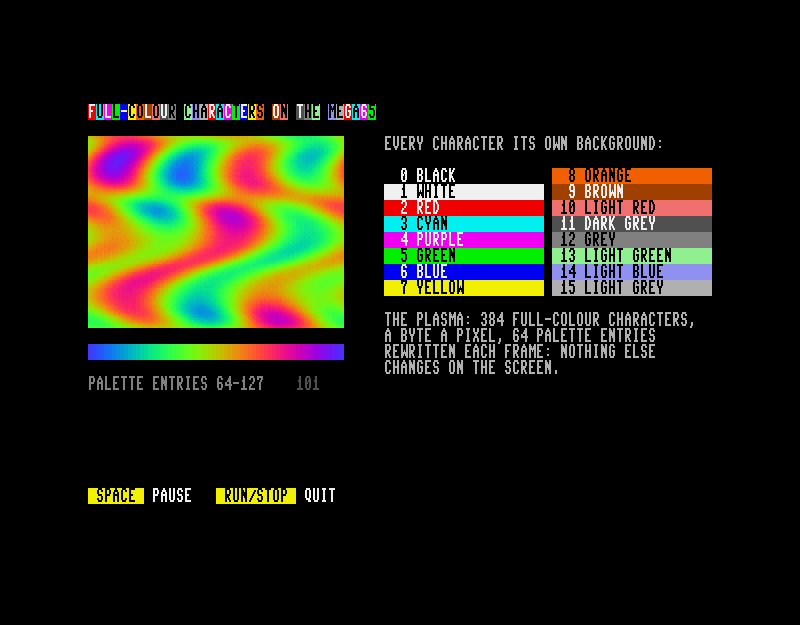
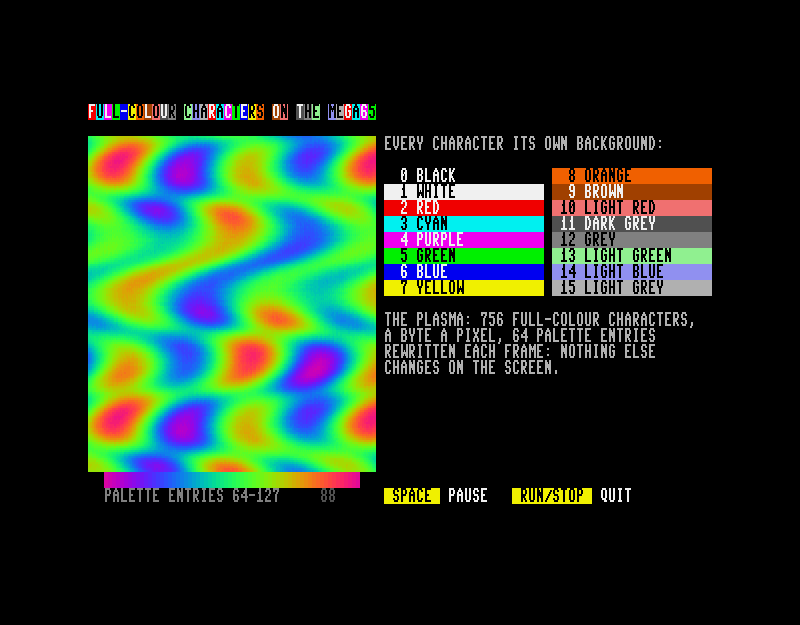
examples: fcm_graphics' plasma fills the screen's left half (36x21 characters)
756 full-colour characters (288x168 pixels, 49 KB in bank 4; conio's
full-colour mode then takes bank 5) instead of 32x12. The palette bar
and the frame count are below it, the keys on the right.

Changed region(s): [[0.0938, 0.2128, 0.7812, 0.8208], [0.5938, 0.4864, 0.625, 0.5168]]

diff --git a/examples/c/fcm_graphics/main.c b/examples/c/fcm_graphics/main.c
@@ -8,7 +8,8 @@
  *
  *   - a title and a table of the 16 colours, each character on its own
  *     background (fcm_putch / fcm_cputs / fcm_cprintf / fcm_fill_rect);
- *   - a plasma 32 x 12 characters (256 x 96 pixels) of 384 full-colour
+ *   - a plasma 36 x 21 characters (288 x 168 pixels, the screen's left
+ *     half) of 756 full-colour
  *     characters, each pixel one of 64 palette entries, and a bar of the 64
  *     entries; they move by palette cycling alone: each frame the 64 entries
  *     are rewritten one step further round, and no character changes.
@@ -25,9 +26,10 @@
 
 #define PX 1            /* the plasma's top left cell */
 #define PY 2
-#define PW 32           /* its size in cells */
-#define PH 12
-#define BARY 15         /* the palette bar's row */
+#define PW 36           /* its size in cells */
+#define PH 21
+#define BARY 23         /* the palette bar's row */
+#define BARX (PX + 2)   /* (32 cells, centred under the plasma) */
 #define RAMP 64         /* the palette entries it uses: RAMP .. RAMP + 63 */
 
 /* sin, 0..63 over 64 steps */
@@ -75,14 +77,15 @@ static void store(unsigned long a) {
 /* The plasma's characters and the bar's, from a (64-byte aligned): the
  * character at a + 64 * k is number a / 64 + k */
 static void make_glyphs(unsigned long a) {
-    unsigned char cx, cy, r, c, px, py, i;
+    unsigned char cx, cy, r, c, i;
+    unsigned int px, py;
     for (cy = 0; cy < PH; cy++)
         for (cx = 0; cx < PW; cx++) {
             i = 0;
             for (r = 0; r < 8; r++) {
-                py = (unsigned char)(cy * 8 + r);
+                py = cy * 8u + r;
                 for (c = 0; c < 8; c++) {
-                    px = (unsigned char)(cx * 8 + c);
+                    px = cx * 8u + c;
                     pix[i++] = (unsigned char)(RAMP +
                         ((sine[(px >> 1) & 63] + sine[(py + (px >> 2)) & 63] +
                           sine[((px + py) >> 1) & 63] + sine[(sine[py & 63] + (px >> 1)) & 63]) >> 2));
@@ -121,15 +124,15 @@ static void draw_text(void) {
         fcm_fill_rect(x, 4 + i % 8, x + 19, 4 + i % 8, ' ', 1, i);
         fcm_cprintf(x + 1, 4 + i % 8, ink(i), i, "%2d %s", i, names[i]);
     }
-    fcm_cputs(38, 13, "the plasma: 384 full-colour characters,", 15, 0);
+    fcm_cputs(38, 13, "the plasma: 756 full-colour characters,", 15, 0);
     fcm_cputs(38, 14, "a byte a pixel, 64 palette entries", 15, 0);
     fcm_cputs(38, 15, "rewritten each frame: nothing else", 15, 0);
     fcm_cputs(38, 16, "changes on the screen.", 15, 0);
-    fcm_cputs(PX, BARY + 2, "palette entries 64-127", 12, 0);
-    fcm_cputs(1, 24, " space ", 0, 7);
-    fcm_cputs(8, 24, " pause   ", 1, 0);
-    fcm_cputs(17, 24, " run/stop ", 0, 7);
-    fcm_cputs(27, 24, " quit", 1, 0);
+    fcm_cputs(BARX, BARY + 1, "palette entries 64-127", 12, 0);
+    fcm_cputs(38, 24, " space ", 0, 7);
+    fcm_cputs(45, 24, " pause   ", 1, 0);
+    fcm_cputs(54, 24, " run/stop ", 0, 7);
+    fcm_cputs(64, 24, " quit", 1, 0);
 }
 
 static void wait_frame(void) {
@@ -149,7 +152,7 @@ int main(void) {
     REG(0xD021) = 0;
     textcolor(1);
     clrscr();
-    /* 384 + 32 characters, 64-byte aligned */
+    /* 756 + 32 characters (49 KB), 64-byte aligned */
     mem = far_malloc((PW * PH + 32) * 64u + 63u, BANK4);
     if (far_is_null(mem)) mem = far_malloc((PW * PH + 32) * 64u + 63u, BANK5);
     if (far_is_null(mem) || !fcm_enable()) {
@@ -164,7 +167,7 @@ int main(void) {
     for (cy = 0; cy < PH; cy++)
         for (cx = 0; cx < PW; cx++)
             fcm_putglyph(PX + cx, PY + cy, k++, 1);
-    for (cx = 0; cx < 32; cx++) fcm_putglyph(PX + cx, BARY, k++, 1);
+    for (cx = 0; cx < 32; cx++) fcm_putglyph(BARX + cx, BARY, k++, 1);
     draw_text();
 
     for (;;) {
@@ -173,7 +176,7 @@ int main(void) {
             cycle(++at);
             frames++;
         }
-        fcm_cprintf(PX + 24, BARY + 2, 11, 0, "%5u", frames);
+        fcm_cprintf(BARX + 24, BARY + 1, 11, 0, "%5u", frames);
 #ifdef FCM_CHECK
         if (frames == 100) break;
 #endif

diff --git a/examples/README.md b/examples/README.md
@@ -30,7 +30,7 @@ These examples demonstrate different features of the m65compiler. [doc/examples]
 - **rtc_clock/** - The real-time clock in big digits (a 5x7 font of reverse spaces) with the weekday, date, a seconds bar and a stopwatch counted in video frames. The RTC's BCD registers at `$FFD7110`-`$FFD7116` are outside the 16-bit address space: a `dma_copy_far` copies them each frame. Keys: H 12/24 hours, S stopwatch start/stop, R reset, C colours, RUN/STOP quit. `make check` reads the RTC twice, a second apart, in xemu.
 - **rogue/** - A mini rogue-like: a random dungeon per level (a 3x3 grid of rooms joined along a random spanning tree), rooms lit when entered and an explored-map memory, monsters by depth that chase you when they see you, bump-to-attack combat, potions, gold, weapons and armour, experience levels; find the amulet on depth 8. Monsters and items are structs inheriting a position (`struct Monster : Thing`). Keys: cursor keys or h/j/k/l and y/u/b/n, `.` wait, `>` down, R new game, RUN/STOP quit; a joystick in port 2 too. `make check` tests levels from fixed seeds, scripted moves and a random walk.
 - **hanger/** - Hangman with a different victim on the gallows each level: a human, a cat, a duck, a giraffe, an elephant and an octopus, a part added for each wrong letter. One player against the computer (3 lives) or two players setting words for each other. The words are the 500 most common English words of 3+ letters (`words.txt`), sorted by how hard they are to guess, harder each level. The pictures are drawn in Python with PIL shapes (`gen_gfx.py`) and cut into character cells: each level's glyphs are copied into a character set in bank 4 with `dma_copy_far` when it starts, and each stage of the drawing is stored as the cells it changes. Tried letters change shape, not only colour. `make demo` builds a version that plays by itself.
-- **fcm_graphics/** - Full-colour characters (64 bytes, a byte a pixel, each pixel a palette entry): conio's full-colour mode gives every character its own background (`fcm_enable`, `fcm_putch`, `fcm_cputs`, `fcm_cprintf`, `fcm_fill_rect`: a title and a table of the 16 colours), and the program's own characters make a 32x12-character plasma and a bar of the palette entries it uses (`fcm_putglyph`, glyphs made in bank 4 with `dma_copy_far`). The plasma moves by palette cycling alone: each frame the 64 entries are rewritten one step further round. Keys: SPACE pause, RUN/STOP quit. `make check` builds a test that runs 100 frames and reports on the screen.
+- **fcm_graphics/** - Full-colour characters (64 bytes, a byte a pixel, each pixel a palette entry): conio's full-colour mode gives every character its own background (`fcm_enable`, `fcm_putch`, `fcm_cputs`, `fcm_cprintf`, `fcm_fill_rect`: a title and a table of the 16 colours), and the program's own characters make a 36x21-character plasma (the screen's left half) and a bar of the palette entries it uses (`fcm_putglyph`, glyphs made in bank 4 with `dma_copy_far`). The plasma moves by palette cycling alone: each frame the 64 entries are rewritten one step further round. Keys: SPACE pause, RUN/STOP quit. `make check` builds a test that runs 100 frames and reports on the screen.
 - **forth/** - A tiny Forth, a calculator you can program: `: name ... ;` definitions, `if`/`else`/`then`, `do`/`loop`, `begin`/`until`, variables and constants, `*/`, `sqrt`, hex/decimal. Definitions compile to threaded code run by an inner interpreter that dispatches with GCC's computed goto (`goto *ops[code[ip++]]`); also statement expressions, case ranges and a nested function. `make check` runs a test script in xemu. Keys: type a line and RETURN; BYE or RUN/STOP quits.
 - **vic4_colors/** - Steps the border and background colours through a struct overlay on `$D020`/`$D021`, ending on white with black text.
 - **stdlib/math_h/** - Math library examples (min/max, gcd/lcm)

diff --git a/doc/examples/README.md b/doc/examples/README.md
@@ -194,8 +194,9 @@ pixel a palette entry (`$00` the screen's background, `$FF` the character's
 colour). `<conio.h>`'s full-colour mode (`fcm_enable`) uses them to give each
 character its own background: the title's letters and the table of the 16
 colours are drawn with `fcm_putch`, `fcm_cputs`, `fcm_cprintf` and
-`fcm_fill_rect`, and conio makes the glyphs from the font. The plasma is 384
-of the program's own characters (256x96 pixels), computed from a sine table
+`fcm_fill_rect`, and conio makes the glyphs from the font. The plasma is 756
+of the program's own characters (36x21 of them, 288x168 pixels: the screen's
+left half), computed from a sine table
 into bank 4 with `dma_copy_far` and placed with `fcm_putglyph`; each pixel is
 one of 64 palette entries set to a colour wheel, as is the bar of 32
 characters below it. It moves by palette cycling alone: each frame the 64

diff --git a/CHANGELOG.md b/CHANGELOG.md
@@ -7,7 +7,7 @@ All notable changes to the cc45 / ca45 suite will be documented in this file.
 ### Examples: fcm_graphics; conio's fcm_putglyph
 
 - New `examples/c/fcm_graphics`: full-colour characters, a background for
-  each character (the title, a table of the 16 colours) and a 32x12
+  each character (the title, a table of the 16 colours) and a 36x21
   plasma of the program's own full-colour characters moved by palette
   cycling alone. On the examples disk, in `capture_screens.py` and in
   `test_examples.sh` (a test build runs 100 frames and reports).
